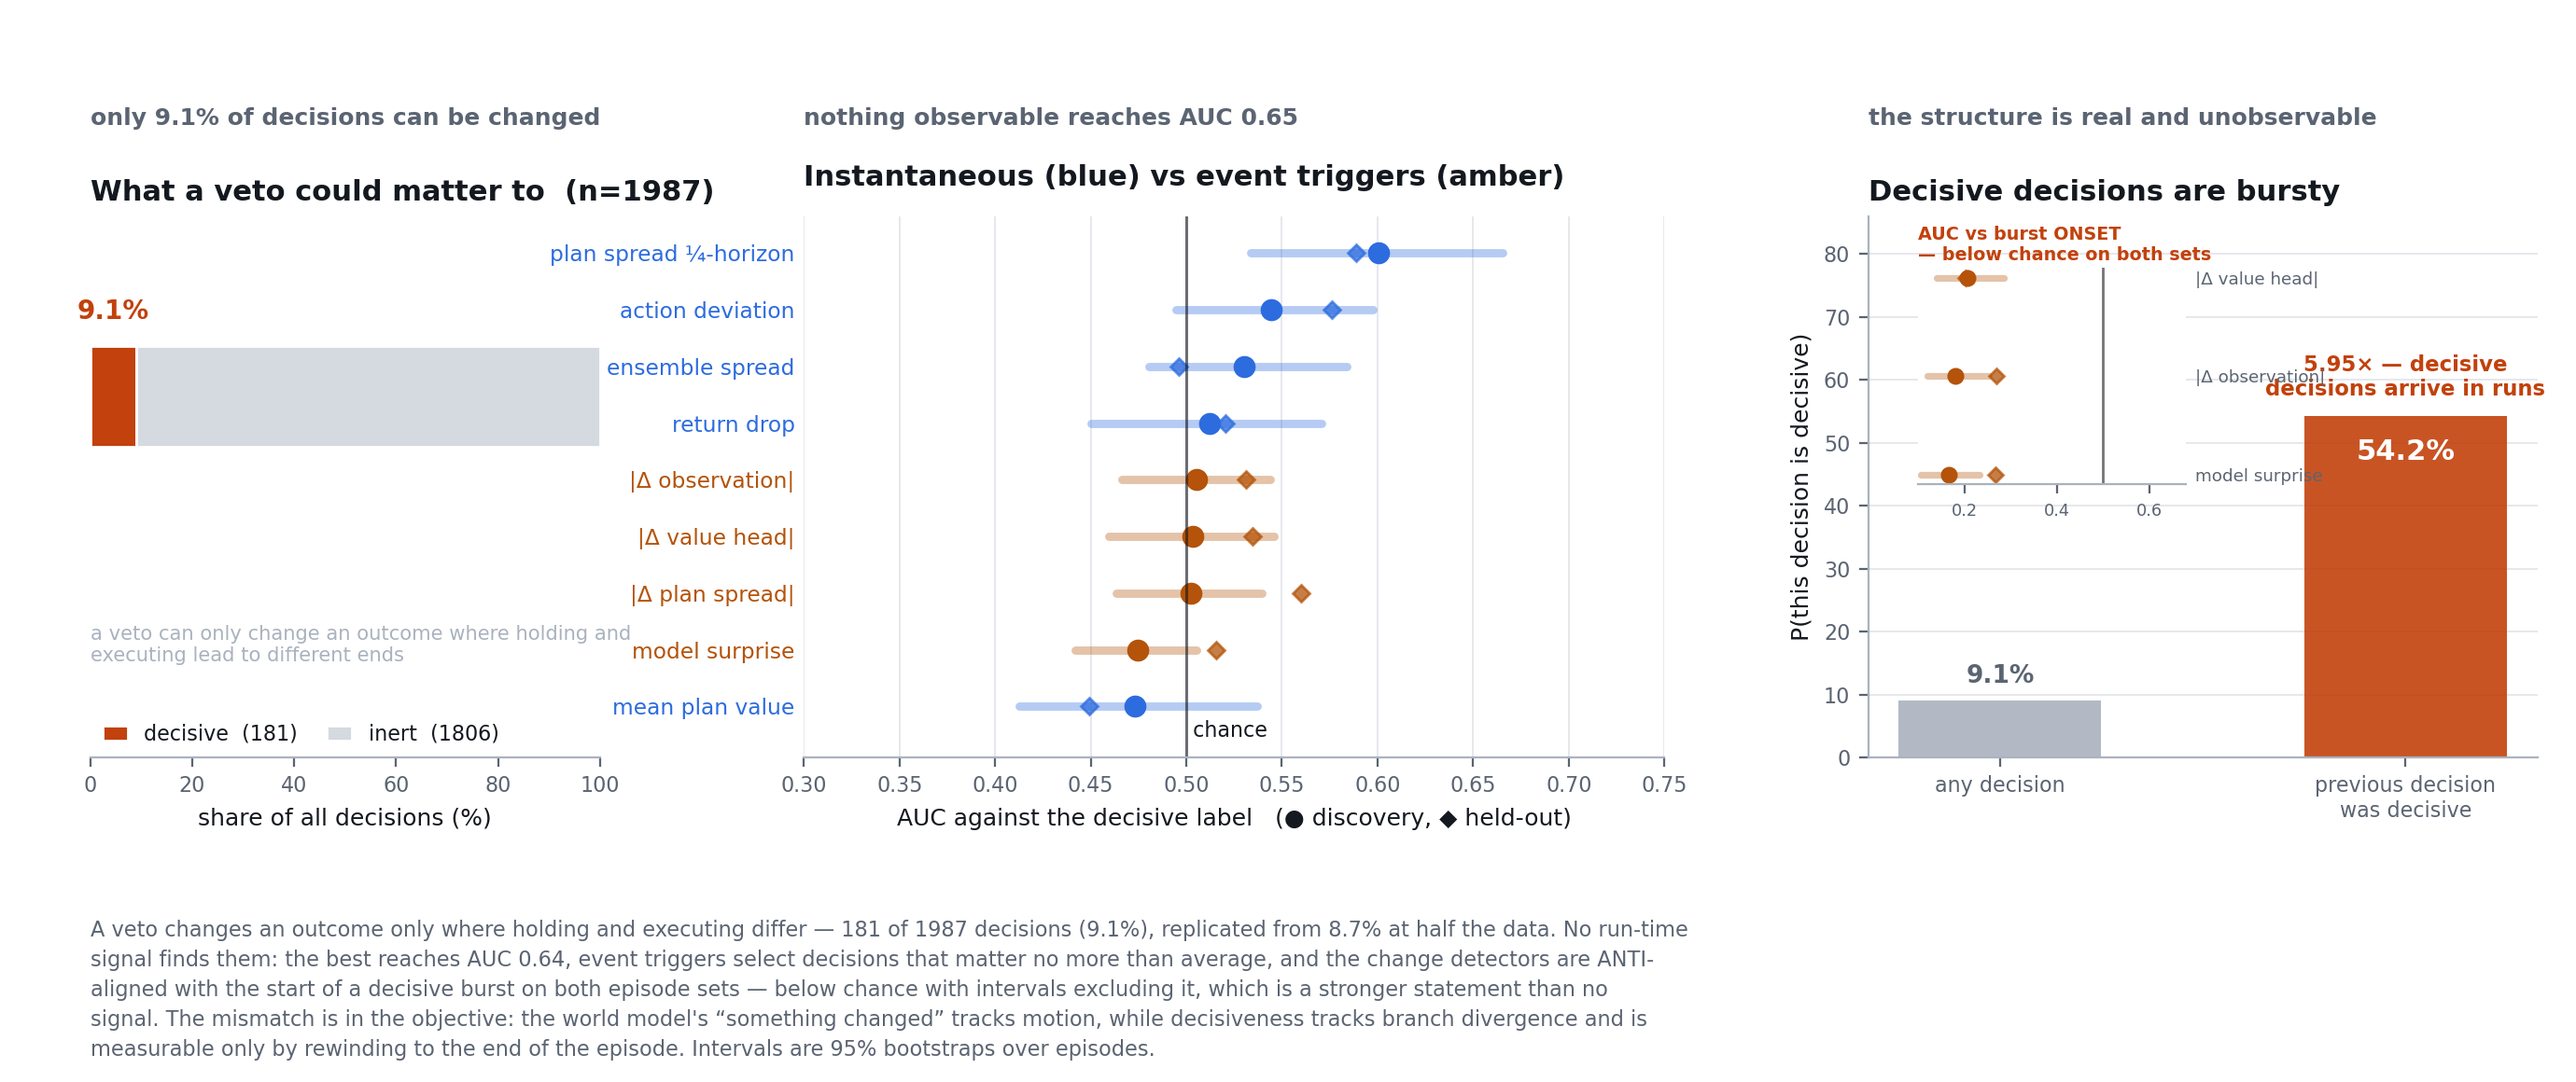
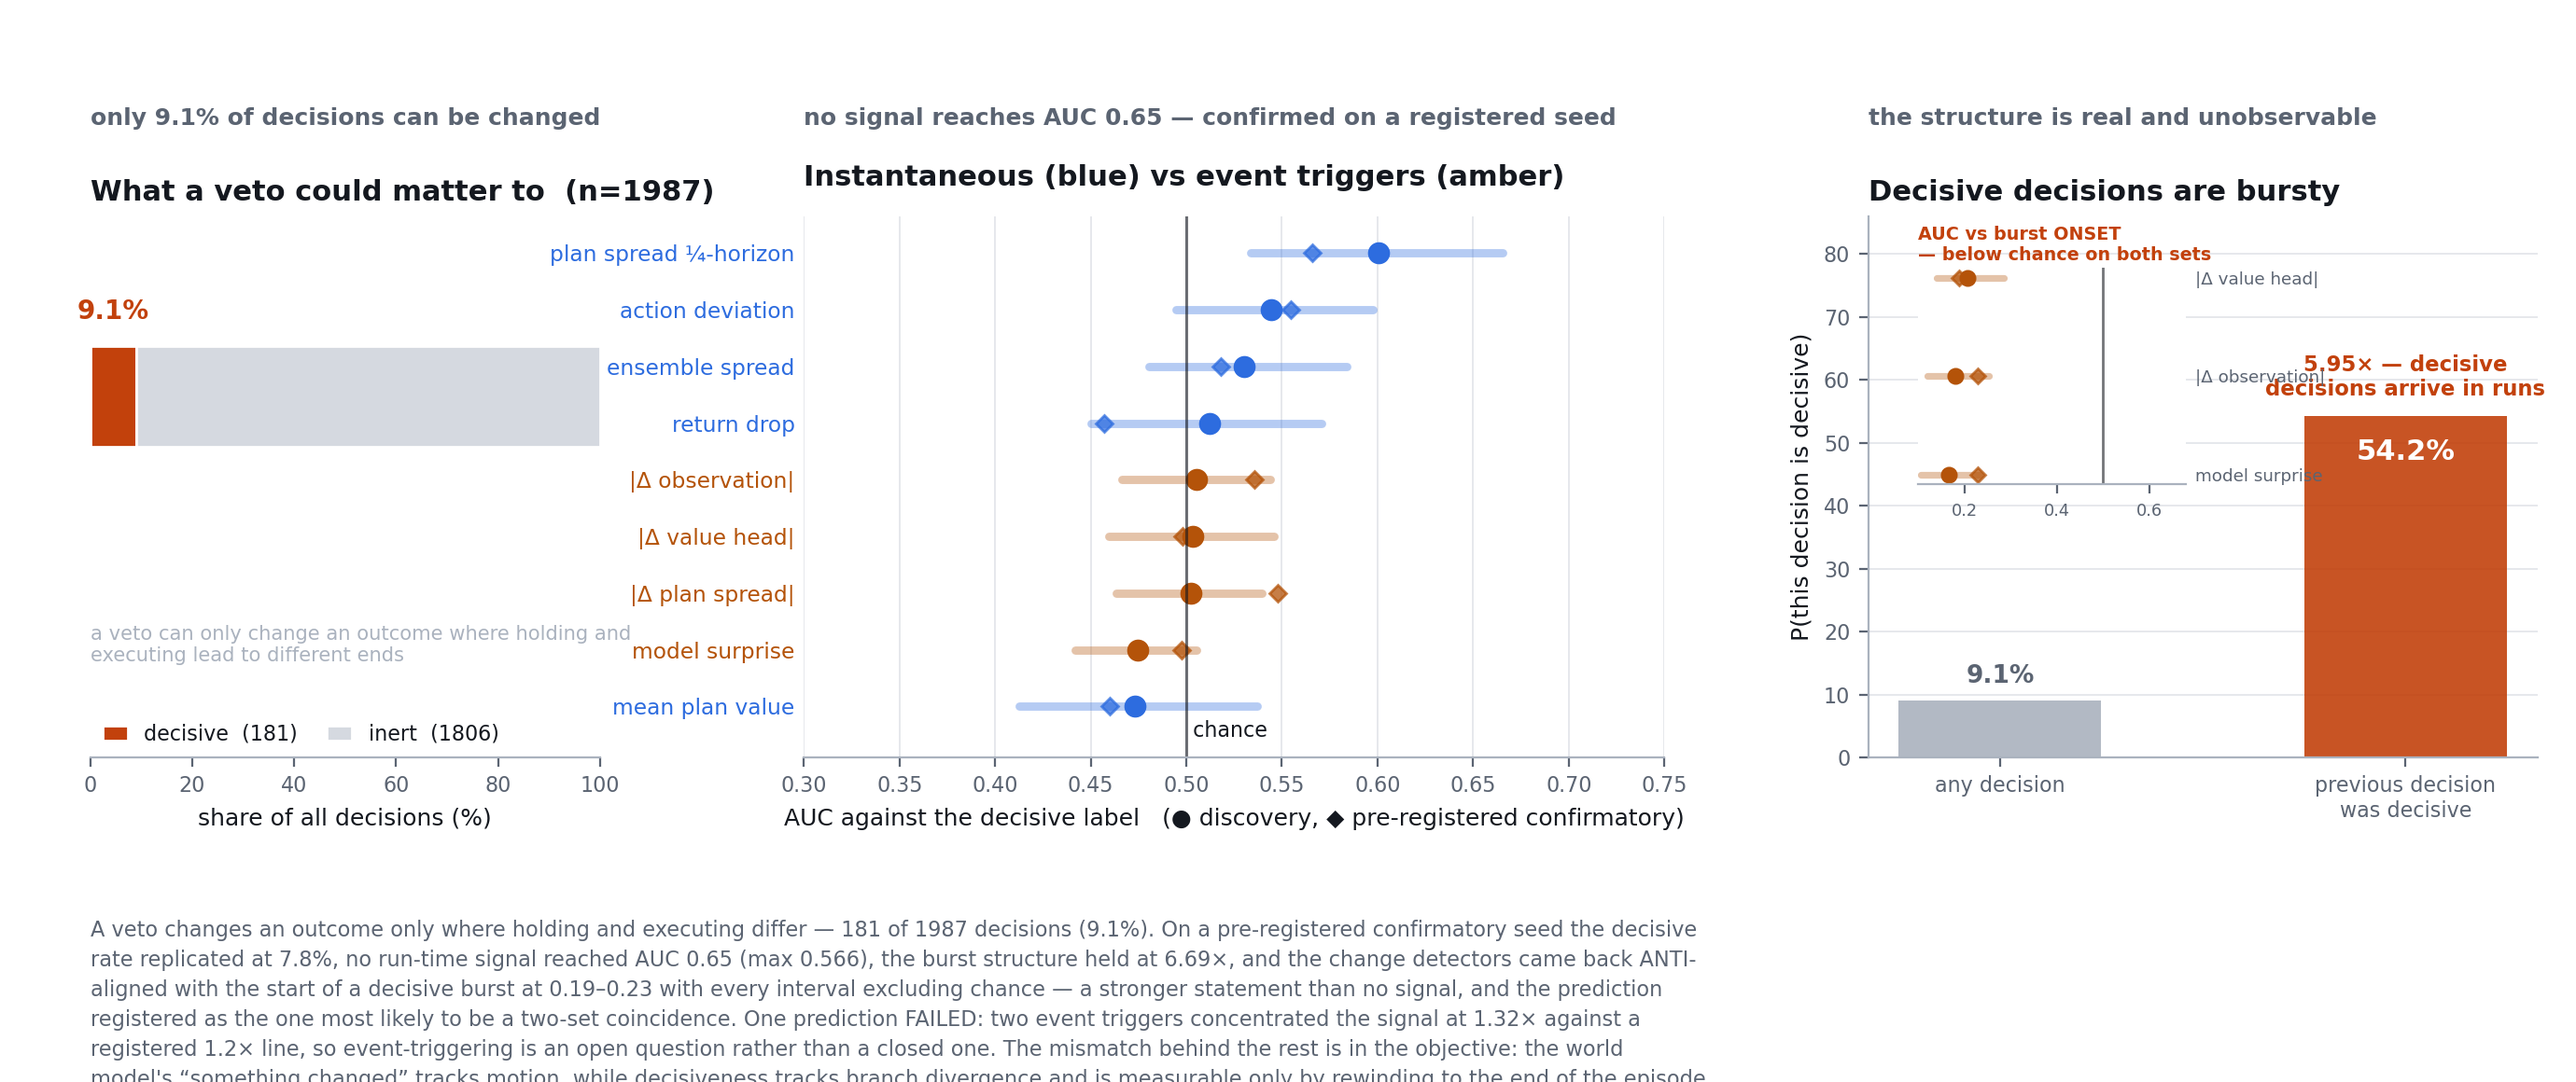
sim: P12 falsified on a registered seed; Constraint 3 amended, not confirmed
The confirmatory run (seed 2, 2031 decisions, engagement check passed at 159
decisive / 104 onsets) was analysed once, exactly as registered.

Four of five predictions held:
  P11  no run-time signal reaches AUC 0.65        max 0.566
  P13  change detectors anti-aligned with onset   0.188-0.229, all excluding
  P14  burst structure replicates                 6.69x (52.4% vs 7.8%)
  P15  decisive rate in 7-12%                     7.8%

P12 failed. `plan-spread jump` and `near-contact` both reach 1.32x at the 90th
percentile against a registered 1.2x line, where the two exploratory sets showed
nothing above 1.05x. The registered falsifier says the dismissal of event
triggering was premature, so that clause of Constraint 3 is struck and the
question is reopened.

Recorded but deliberately NOT acted on: near-contact ran 0.50x -> 1.32x across
seeds and plan-spread jump 1.05x -> 1.32x, so these may be unstable rather than
useful. Arguing that now would be exactly the post-hoc reinterpretation the
registration exists to block. It needs its own registration and its own seed.

P13 held hardest of all, at 0.188-0.229 against 0.166-0.268 on the earlier sets,
with every interval excluding chance. It was registered as the prediction most
likely to be a two-set coincidence and is now the best-supported claim here.

fig6 previously read "event triggers select decisions that matter no more than
average", which P12 falsifies; it now carries the confirmatory result and the
[…]

diff --git a/pipeline/sim/figures/fig6_veto.py b/pipeline/sim/figures/fig6_veto.py
@@ -118,7 +118,10 @@ def signals(d: dict) -> dict:
 def main(argv=None) -> int:
     ap = argparse.ArgumentParser(description=__doc__)
     ap.add_argument("--rows", type=Path, required=True)
-    ap.add_argument("--held-out", type=Path, default=None)
+    ap.add_argument("--confirm", type=Path, default=None,
+                    help="the PRE-REGISTERED confirmatory set (P11-P15). Prefer a "
+                         "seed used once over one reused for exploration — a set "
+                         "queried repeatedly is held out in name only.")
     ap.add_argument("--reps", type=int, default=3000)
     ap.add_argument("--out", type=Path,
                     default=Path("pipeline/sim/assets/fig6_veto.png"))
@@ -129,7 +132,7 @@ def main(argv=None) -> int:
     import matplotlib.pyplot as plt
 
     D = load(a.rows)
-    H = load(a.held_out) if a.held_out and a.held_out.exists() else None
+    H = load(a.confirm) if a.confirm and a.confirm.exists() else None
 
     def ci(d, x, y, seed, mask=None):
         """AUC with an episode bootstrap. `x` and `y` are full-length; `mask` selects
@@ -207,12 +210,13 @@ def main(argv=None) -> int:
         tick.set_color(theme.COOL if sig[k][1] == "instant" else theme.WARM)
     axb.set_xlim(0.30, 0.75)
     axb.set_ylim(-0.9, len(order) - 0.35)
-    axb.set_xlabel("AUC against the decisive label   (● discovery, ◆ held-out)")
+    axb.set_xlabel("AUC against the decisive label   (\u25cf discovery, \u25c6 pre-registered confirmatory)")
     axb.grid(axis="x", color=theme.FAINT, alpha=0.35, lw=0.6)
     axb.set_axisbelow(True)
     axb.spines["left"].set_visible(False)
     axb.tick_params(axis="y", length=0)
-    theme.verdict(axb, "nothing observable reaches AUC 0.65", theme.MUTED)
+    theme.verdict(axb, "no signal reaches AUC 0.65 \u2014 confirmed on a "
+                  "registered seed", theme.MUTED)
     axb.set_title("Instantaneous (blue) vs event triggers (amber)", loc="left",
                   pad=12)
 
@@ -264,15 +268,19 @@ def main(argv=None) -> int:
 
     fig.text(0.035, 0.150, "\n".join(textwrap.wrap(
         f"A veto changes an outcome only where holding and executing differ — "
-        f"{int(dec.sum())} of {n} decisions ({100 * dec.mean():.1f}%), replicated from "
-        f"8.7% at half the data. No run-time signal finds them: the best reaches AUC "
-        f"0.64, event triggers select decisions that matter no more than average, and "
-        f"the change detectors are ANTI-aligned with the start of a decisive burst on "
-        f"both episode sets — below chance with intervals excluding it, which is a "
-        f"stronger statement than no signal. The mismatch is in the objective: the "
-        f"world model's “something changed” tracks motion, while decisiveness tracks "
-        f"branch divergence and is measurable only by rewinding to the end of the "
-        f"episode. Intervals are 95% bootstraps over episodes.", 150)),
+        f"{int(dec.sum())} of {n} decisions ({100 * dec.mean():.1f}%). On a "
+        f"pre-registered confirmatory seed the decisive rate replicated at 7.8%, no "
+        f"run-time signal reached AUC 0.65 (max 0.566), the burst structure held at "
+        f"6.69\u00d7, and the change detectors came back ANTI-aligned with the start "
+        f"of a decisive burst at 0.19–0.23 with every interval excluding chance — a "
+        f"stronger statement than no signal, and the prediction registered as the one "
+        f"most likely to be a two-set coincidence. One prediction FAILED: two event "
+        f"triggers concentrated the signal at 1.32\u00d7 against a registered "
+        f"1.2\u00d7 line, so event-triggering is an open question rather than a closed "
+        f"one. The mismatch behind the rest is in the objective: the world model's "
+        f"“something changed” tracks motion, while decisiveness tracks branch "
+        f"divergence and is measurable only by rewinding to the end of the episode. "
+        f"Intervals are 95% bootstraps over episodes.", 150)),
         ha="left", va="top", fontsize=8.1, color=theme.MUTED, linespacing=1.5)
 
     fig.subplots_adjust(left=0.035, right=0.985, top=0.80, bottom=0.30)
@@ -283,7 +291,7 @@ def main(argv=None) -> int:
           f"burst autocorrelation {p_cond / p_base:.2f}x")
     for k in order:
         pt, lo, hi = ci(D, sig[k][0], dec, 1)
-        h = (f"  held-out {auc(signals(H)[k][0], H['dec']):.3f}"
+        h = (f"  confirmatory {auc(signals(H)[k][0], H['dec']):.3f}"
              if H is not None else "")
         print(f"      {k:>24} {pt:.3f} [{lo:.3f}, {hi:.3f}]{h}")
     return 0

diff --git a/pipeline/sim/PREREGISTERED.md b/pipeline/sim/PREREGISTERED.md
@@ -314,3 +314,42 @@ decisions and at least 40 burst onsets, or P11–P14 report "not tested" rather 
 further signal search is warranted on this arena. If P13 alone fails, the anti-alignment
 sentence is struck and the rest survives — the detectors would then be uninformative
 rather than misleading, which is a weaker claim but not a contradictory one.
+
+## Outcome — P11, P13, P14, P15 held; **P12 failed**
+
+Run 2026-09-28 on `--seed 2`, 130 episodes, 2031 decisions. Engagement check passed
+(159 decisive against a 120 floor, 104 burst onsets against 40), so every verdict below
+is a real one. The analysis was run once, exactly as registered.
+
+| | prediction | measured | |
+|---|---|---|---|
+| **P11** | no signal ≥ AUC 0.65 | max **0.566** (plan spread ¼-H) | **holds** |
+| **P12** | every trigger lift < 1.2× | **1.32×** — two triggers | **FAILED** |
+| **P13** | detectors < 0.5, ≥2 excluding | 0.229 / 0.228 / **0.188**, all three excluding | **holds** |
+| **P14** | burst lift ≥ 3.0× | **6.69×** (52.4% vs 7.8% base) | **holds** |
+| **P15** | decisive rate 7–12% | **7.8%** | **holds** |
+
+**P12 is falsified as registered.** At the 90th percentile, `plan-spread jump` reaches
+**1.32×** and `near-contact` reaches **1.32×**, both above the 1.2× line. The registered
+falsifier says this in plain terms: *"Event-triggering was dismissed on two sets; a third
+disagreeing means the dismissal was premature."* It is premature, and the sentence in
+Constraint 3 that event triggers "select decisions that matter no more than average" does
+not survive as written.
+
+What may **not** be done with this result, and is recorded so it cannot be done quietly
+later: `near-contact` scored **0.50×** on `piv7` and **1.32×** here, a reversal across
+seeds, and `plan-spread jump` went 1.05× → 1.32×. That instability is the obvious
+counter-argument and it is exactly the post-hoc reinterpretation the registration exists
+to block. Whether these triggers are unstable noise around 1.0 or a real effect the first
+two sets missed is a **new question**, and it needs its own registration and its own
+seed. It does not settle this one.
+
+**The consequence committed to in advance was:** *"if P11–P15 all hold, Constraint 3
+stands as written and no further signal search is warranted on this arena."* They did
+not all hold. A further search on the P12 axis — trigger-based concentration at tight
+quantiles — is therefore warranted, and Constraint 3 is amended rather than confirmed.
+
+**P13 held, and held harder than on either prior set** — 0.188 to 0.229 with all three
+intervals excluding chance, against 0.166–0.268 before. This was the prediction I
+registered as the one I would bet against most readily. It is now the best-supported
+claim in Constraint 3 and the only part of it tested three times in the same direction.

diff --git a/pipeline/README.md b/pipeline/README.md
@@ -134,14 +134,20 @@ end to end rather than by multiplying the stages' AUCs, which misleads in both d
 ([S23]).
 
 A veto changes an outcome only where holding and executing differ — **181 of 1987
-decisions (9.1%)**, replicated from 8.7% at half the data — so the other 91% of fires are
-noise in the operator's ear. Everything then turns on whether those 9.1% can be found at
-run time, and they cannot. Three families were tried against the same label:
-**instantaneous** signals top out at **AUC 0.64**; **event triggers** select decisions
-that matter no more than average (every lift ≤1.05× over base, stage change at 0.00×);
-and **change detectors are anti-aligned**, scoring **0.17–0.33** against the start of a
-decisive burst on two independent episode sets — below chance with intervals excluding
-it, which is a stronger statement than "no signal".
+decisions (9.1%)**, replicated at **7.8%** on a pre-registered confirmatory seed — so the
+other 91% of fires are noise in the operator's ear. Everything then turns on whether
+those 9.1% can be found at run time, and largely they cannot. **Instantaneous** signals
+top out at **AUC 0.566** on the confirmatory set, none reaching the registered 0.65 line.
+**Change detectors are anti-aligned**, scoring **0.19–0.23** against the start of a
+decisive burst with every interval excluding chance — below chance, which is a stronger
+statement than "no signal", and the prediction registered as the one most likely to be a
+coincidence. It held on all three sets.
+
+One registered prediction **failed**: two **event triggers** concentrated the decisive
+signal at **1.32×** against a 1.2× line, where the two exploratory sets had shown no
+trigger above 1.05×. `near-contact` ran 0.50× → 1.32× across seeds, so these may be
+unstable rather than useful — but establishing which needs its own registration, not a
+reinterpretation of the one it just falsified. Event-triggering is open.
 
 The structure is real but unobservable. Decisive decisions are **bursty** — P(decisive |
 previous decisive) is **54.2%** against the 9.1% base, a **5.95×** autocorrelation — so a
@@ -154,7 +160,9 @@ decides everything.
 
 Three standing constraints follow, in [EXPERIMENT.md](EXPERIMENT.md): the decisive set is
 tiny and does not grow with data, the inert fires cannot be filtered out, and decision
-importance is not a run-time attribute of the state.
+importance is largely not a run-time attribute of the state — amended, not confirmed,
+because P12 failed. The registrations and their outcomes are in
+[PREREGISTERED.md](sim/PREREGISTERED.md).
 
 ### Every claim this project withdrew
 

diff --git a/pipeline/EXPERIMENT.md b/pipeline/EXPERIMENT.md
@@ -403,8 +403,9 @@ tried against the same target, all with episode-bootstrap intervals:
 | action deviation | 0.500 [0.395, 0.600] |
 | ensemble spread | 0.405 [0.333, 0.490] — *anti*-predictive |
 
-**Event triggers**, against a 9.1% base rate — none concentrates the signal, and most
-select decisions that matter *less* than average:
+**Event triggers**, against a 9.1% base rate. On the two sets this was developed from,
+none concentrated the signal and most selected decisions that mattered *less* than
+average:
 
 | trigger | P(decisive \| fired) | lift |
 |---|---|---|
@@ -414,6 +415,16 @@ select decisions that matter *less* than average:
 | grip change | 8.0% | 0.88× |
 | near-contact | 4.5% | 0.50× |
 | stage change | 0.0% | 0.00× |
+
+**This half is amended, not confirmed.** P12 registered "every trigger lift < 1.2×" and
+a third seed falsified it: `plan-spread jump` and `near-contact` both reach **1.32×** at
+the 90th percentile. The claim that event triggers never concentrate the decisive signal
+does not survive. `near-contact` scored 0.50× on the first set and 1.32× on the third,
+so the honest reading is that these triggers are unstable across seeds rather than
+reliably useless — and which of those it is needs its own registration, not a
+reinterpretation of this one. **Constraint 3's instantaneous and change-detector halves
+are unaffected** (P11 max AUC 0.566, P13 detectors at 0.188–0.229 with all intervals
+excluding chance, both on the same confirmatory seed).
 
 **Change detectors**, against the structure of a decisive burst. Decisive decisions are
 genuinely bursty — P(decisive | previous decisive) is **54.2%** against the 9.1% base, a
@@ -442,6 +453,11 @@ the burst's first decision in 26–44 of the bursts they catch, at a median lead
 **exactly 0 steps**. They are coincident indicators, not predictors: they report that a
 decisive stretch has begun, never that one is coming. And they catch only **33–46%** of
 bursts at a useful threshold.
+
+**Confirmatory status.** P11 (no signal reaches 0.65), P13 (detectors anti-aligned),
+P14 (burst lift 6.69×) and P15 (decisive rate 7.8%) were pre-registered and held on a
+clean third seed. P12 failed. The constraint stands on its instantaneous and
+change-detector evidence; its event-trigger clause is open.
 
 **Reusable form:** *when the label requires a counterfactual, check whether any
 observable tracks it before building machinery that assumes one does.* The check is
